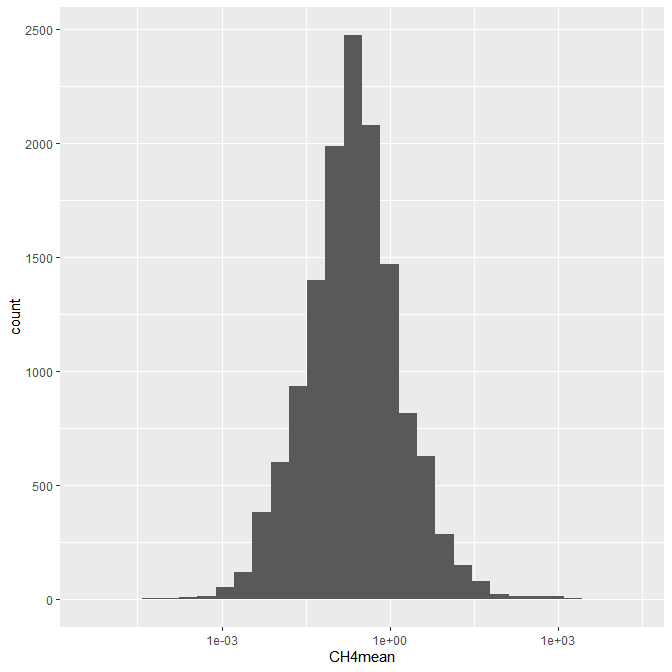
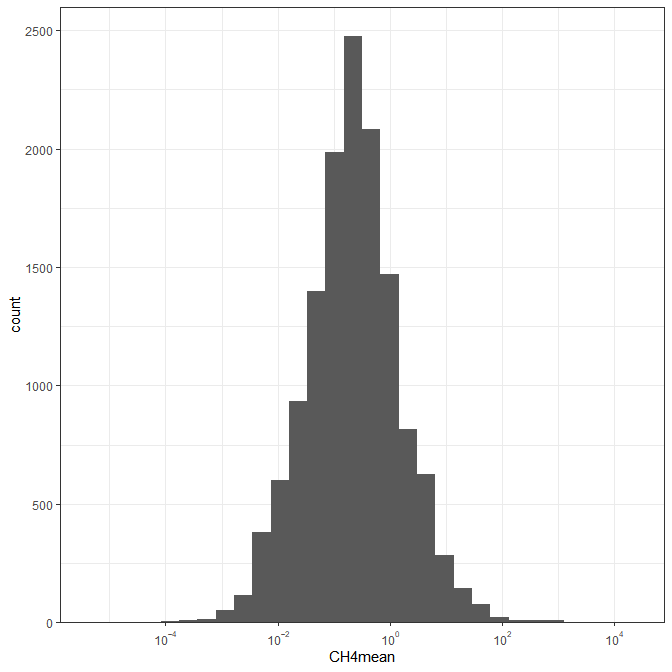
adding ggplot scale nice function and making a 6 panel example figure

diff --git a/README.md b/README.md
@@ -30,8 +30,10 @@ all variables (CH4, CO2, N2O, nutrients)
 
 library(dplyr)
 library(ggplot2)
-# library(gridExtra)
 library(grid)
+
+#Load custom ggplot functions
+source("R/ggplot2_utils.R")
 
 # load formatted and converted tables into your R environment
 load(file.path(path_to_dropbox, "db_processingR", 
@@ -125,12 +127,22 @@ head(papers_df)
 #> #   ...10 <chr>
 ```
 
-### Example
+### Example figures
+
+Let’s plot the distribution of mean CH4, CO2, and N2O concentration and
+fluxes.
 
 ``` r
+
+commontheme <- list(
+  theme_bw(), 
+  scale_x_log10nice(omag = seq(-20, 20, 2)), 
+  scale_y_continuous(expand = expansion(mult = c(0, .05)))
+)
+
 CH4mean_hist_fig <- ggplot(conc_df) +
   geom_histogram(aes(x = CH4mean)) +
-  scale_x_log10() 
+  commontheme
 
 print(CH4mean_hist_fig)
 ```
@@ -146,34 +158,36 @@ print(CH4mean_hist_fig)
 
 CO2mean_hist_fig <- ggplot(conc_df) +
   geom_histogram(aes(x = CO2mean)) +
-  scale_x_log10() +
-  theme(axis.title.y = element_blank())
+  theme(axis.title.y = element_blank()) + 
+  commontheme
 
 # print(CO2mean_hist_fig)
 
 N2Omean_hist_fig <- ggplot(conc_df) +
   geom_histogram(aes(x = N2Omean)) +
-  scale_x_log10() +
+  commontheme +
   theme(axis.title.y = element_blank())
+
 
 # print(N2Omean_hist_fig)
 
 CH4meanflux_hist_fig <- ggplot(flux_df) +
   geom_histogram(aes(x = DiffusiveCH4FluxMean)) +
-  scale_x_log10() 
+  commontheme
 
 # print(CH4meanflux_hist_fig)
 
 CO2meanflux_hist_fig <- ggplot(flux_df) +
   geom_histogram(aes(x = CO2FluxMean)) +
-  scale_x_log10() +
+  commontheme +
   theme(axis.title.y = element_blank())
+
 
 # print(CO2meanflux_hist_fig)
 
 N2Omeanflux_hist_fig <- ggplot(flux_df) +
   geom_histogram(aes(x = N2OFluxMean)) +
-  scale_x_log10() +
+  commontheme + 
   theme(axis.title.y = element_blank())
 
 # print(N2Omeanflux_hist_fig)
@@ -183,13 +197,13 @@ N2Omeanflux_hist_fig <- ggplot(flux_df) +
 #     height = 7, width = 8, units = "in")
 
 grid.newpage()
-plots<-grid.draw(rbind(cbind(ggplotGrob(CH4mean_hist_fig),
-                             ggplotGrob(CO2mean_hist_fig), 
-                             ggplotGrob(N2Omean_hist_fig)),
-                       cbind(ggplotGrob(CH4meanflux_hist_fig),
-                             ggplotGrob(CO2meanflux_hist_fig),
-                             ggplotGrob(N2Omeanflux_hist_fig)),
-                       size = "first"))
+plots <- grid.draw(rbind(cbind(ggplotGrob(CH4mean_hist_fig),
+                               ggplotGrob(CO2mean_hist_fig), 
+                               ggplotGrob(N2Omean_hist_fig)),
+                         cbind(ggplotGrob(CH4meanflux_hist_fig),
+                               ggplotGrob(CO2meanflux_hist_fig),
+                               ggplotGrob(N2Omeanflux_hist_fig)),
+                         size = "first"))
 ```
 
 ![](man/figures/unnamed-chunk-4-2.png)<!-- -->
